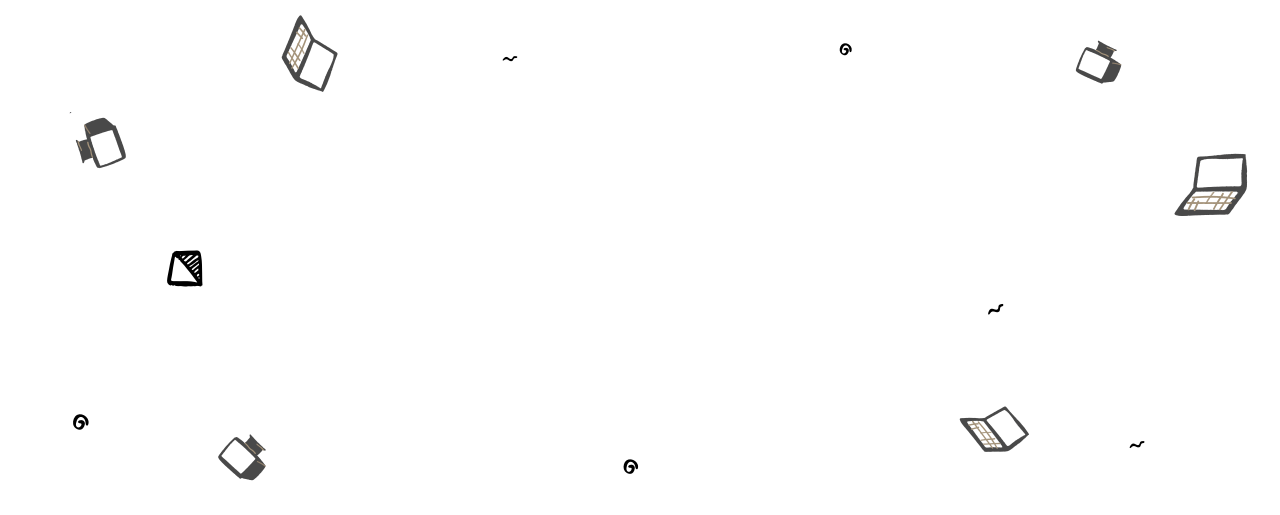
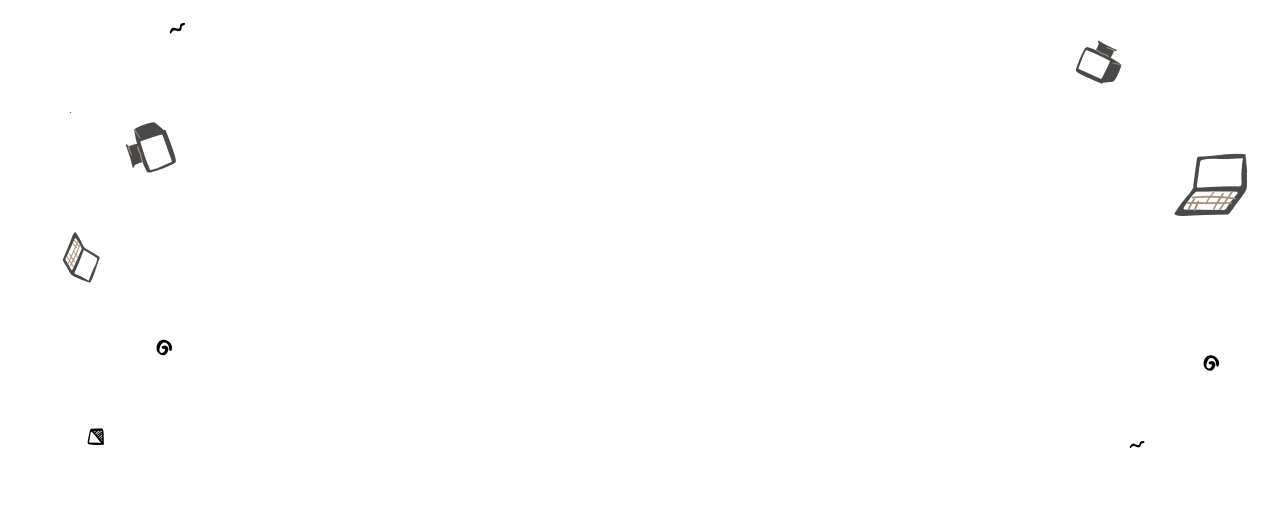
enhance homepage

diff --git a/components/homepage/HeroSection.js b/components/homepage/HeroSection.js
@@ -1,13 +1,15 @@
 import React from 'react'
-import styled, { keyframes } from 'styled-components'
+import styled from 'styled-components'
 import ProgressiveImage from 'react-progressive-image'
+import Typed from 'react-typed'
 
 import { checkWebP } from 'utilities/checkWebP'
 
 const webSupported = checkWebP()
 
 export const StyledHero = styled.section`
-  margin-top: 7rem;
+  position: relative;
+  margin-top: 5rem;
   margin-bottom: 2rem;
   text-align: center;
   display: flex;
@@ -15,6 +17,7 @@ export const StyledHero = styled.section`
   align-items: center;
 
   h1 {
+    position: relative;
     font-size: 2rem;
     font-weight: 900;
     margin: 3rem auto 2rem;
@@ -30,6 +33,7 @@ export const StyledHero = styled.section`
   }
 
   p {
+    position: relative;
     margin: 0 auto;
     padding: 0 1rem;
     max-width: 42rem;
@@ -40,49 +44,16 @@ export const StyledHero = styled.section`
   }
 `
 
-const rotateGirl = keyframes`
-  from {
-    transform: rotate(-20deg);
-  }
-
-  to {
-    transform: rotate(-16deg) translateY(-5px);
-  }
-`
-
-const rotateBoy = keyframes`
-  from {
-    transform: rotate(-10deg);
-  }
-
-  to {
-    transform: rotate(-6deg) translateY(5px);
-  }
-`
-
-const Girl = styled.img`
+const Illustration = styled.div`
   position: absolute;
-  width: 20%;
-  top: 25%;
-  right: 28%;
-  transform: rotate(-20deg);
-  animation: ${rotateGirl} 2.5s 1s alternate infinite ease-in-out;
-`
-
-const Boy = styled.img`
-  position: absolute;
-  width: 18%;
-  top: 35%;
-  left: 28%;
-  transform: rotate(-10deg);
-  animation: ${rotateBoy} 2.5s 1s alternate infinite ease-in-out;
+  top: 0;
+  z-index: 0;
+  pointer-events: none;
 `
 
 const HeroSection = () => (
   <StyledHero aria-label="hero">
-    <div style={{ position: 'relative' }}>
-      <Girl src="/assets/girl.svg" alt="" />
-      <Boy src="/assets/boy.svg" alt="" />
+    <Illustration>
       <ProgressiveImage
         src={
           webSupported ? '/assets/background.webp' : '/assets/background.png'
@@ -91,8 +62,18 @@ const HeroSection = () => (
       >
         {src => <img src={src} alt="" />}
       </ProgressiveImage>
-    </div>
-    <h1>Home of student developers.</h1>
+    </Illustration>
+    <h1>
+      Home of student <br />{' '}
+      <Typed
+        strings={['developers.', 'designers.', 'doers.']}
+        typeSpeed={60}
+        backSpeed={80}
+        startDelay={200}
+        backDelay={5000}
+        loop
+      />
+    </h1>
     <p>
       Showcasing the best learning, tools and resources – handpicked for quality
       with exclusive offers and discounts for students.

diff --git a/components/homepage/FeaturedSection.js b/components/homepage/FeaturedSection.js
@@ -88,7 +88,7 @@ const FeaturedSection = () => {
 
   return (
     <StyledSection aria-label="featured">
-      <h2>Recently Featured</h2>
+      <h2>Featured Stuff</h2>
       <ItemsCarousel
         requestToChangeActive={setActiveItemIndex}
         activeItemIndex={activeItemIndex}

diff --git a/components/homepage/NewsletterSection.js b/components/homepage/NewsletterSection.js
@@ -4,7 +4,8 @@ import styled from 'styled-components'
 import Subscribe from '../Subscribe'
 
 const StyledSection = styled.section`
-  margin: 2rem 0 5rem;
+  position: relative;
+  margin: 2rem 0;
   text-align: center;
   margin: 1rem 0;
 
